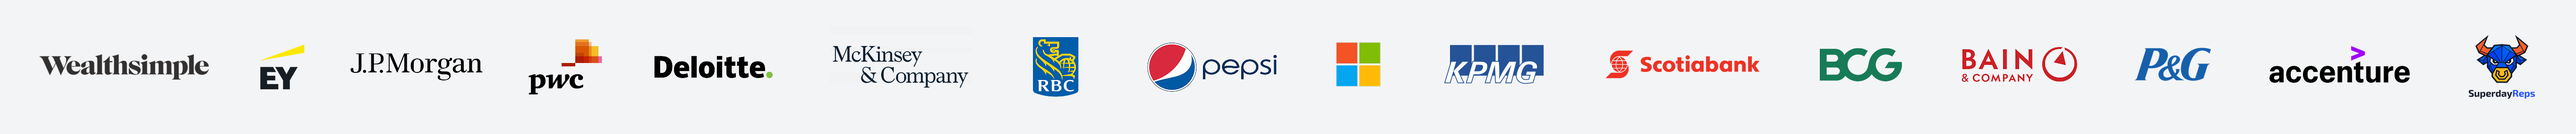
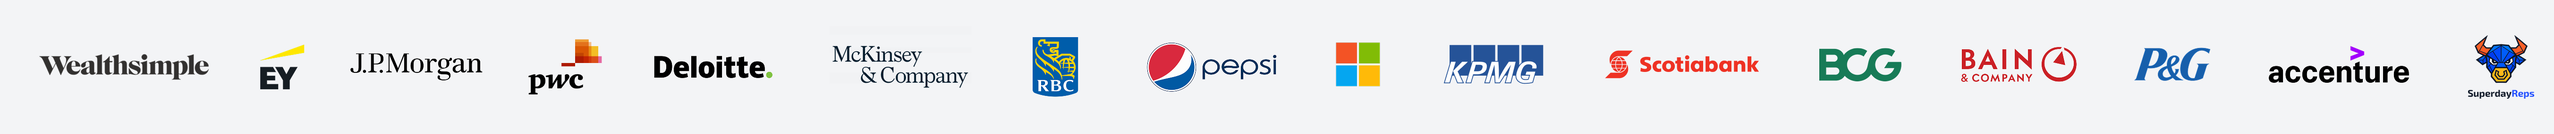
Even out sponsor carousel spacing at the loop seam
The gap between the last logo (Superday Reps) and the first logo of the
next copy (Wealthsimple) was the strip's side margins plus mr-8, about
75% wider than the other gaps. Trim the strip's right margin so both
side margins add up to the usual 125px gap and drop the mr-8, so the
seam matches at every breakpoint and the -50% loop stays seamless.

Changed region(s): [[0.0, 0.2807, 0.9998, 0.7298], [0.9373, 0.6737, 0.9998, 0.7298]]

diff --git a/src/components/index page/Sponsors.tsx b/src/components/index page/Sponsors.tsx
@@ -29,32 +29,32 @@ const Sponsors = () => {
                     <img
                         src={sponsorsImage}
                         alt="Past sponsors logos"
-                        className="max-w-none h-32 lg:h-48 mr-8"
+                        className="max-w-none h-32 lg:h-48"
                     />
                     <img
                         src={sponsorsImage}
                         alt="Past sponsors logos"
-                        className="max-w-none h-32 lg:h-48 mr-8"
+                        className="max-w-none h-32 lg:h-48"
                     />
                     <img
                         src={sponsorsImage}
                         alt="Past sponsors logos"
-                        className="max-w-none h-32 lg:h-48 mr-8"
+                        className="max-w-none h-32 lg:h-48"
                     />
                     <img
                         src={sponsorsImage}
                         alt="Past sponsors logos"
-                        className="max-w-none h-32 lg:h-48 mr-8"
+                        className="max-w-none h-32 lg:h-48"
                     />
                     <img
                         src={sponsorsImage}
                         alt="Past sponsors logos"
-                        className="max-w-none h-32 lg:h-48 mr-8"
+                        className="max-w-none h-32 lg:h-48"
                     />
                     <img
                         src={sponsorsImage}
                         alt="Past sponsors logos"
-                        className="max-w-none h-32 lg:h-48 mr-8"
+                        className="max-w-none h-32 lg:h-48"
                     />
                 </div>
             </div>
